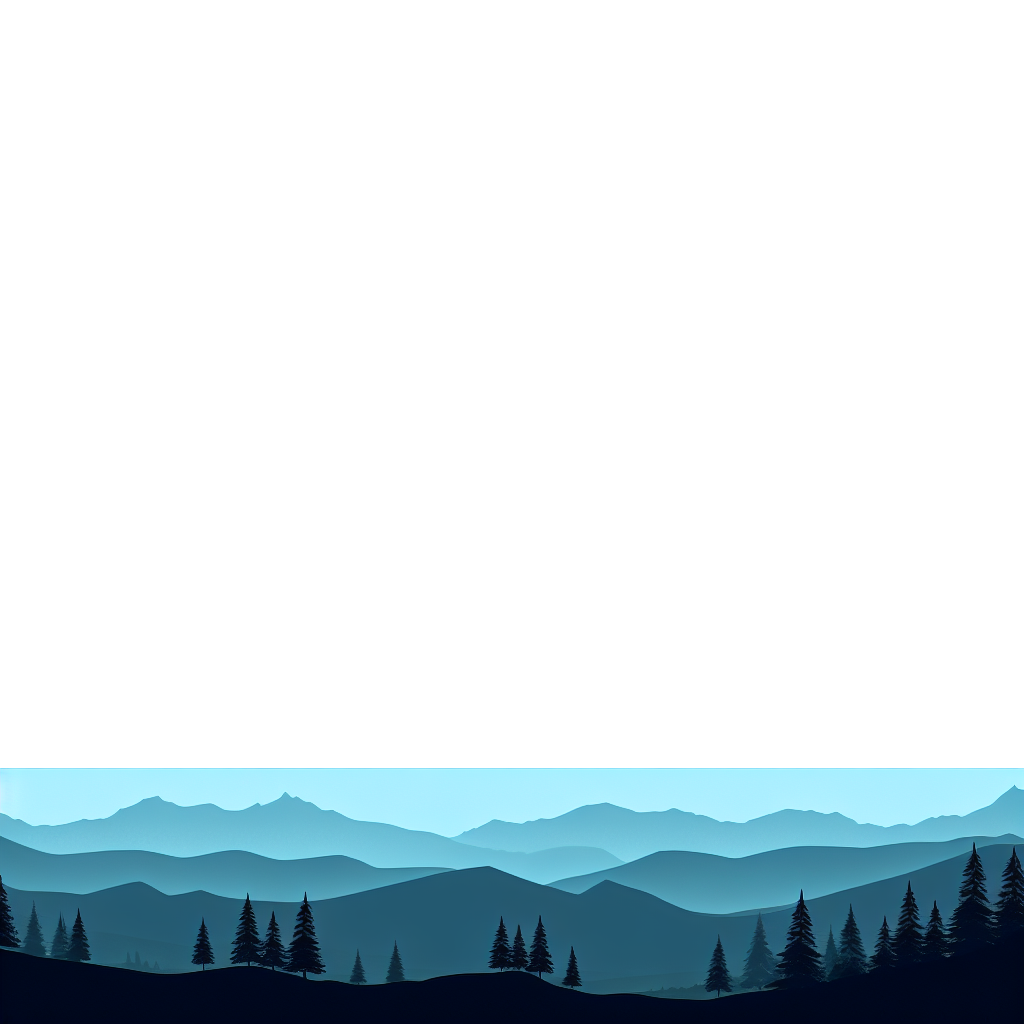
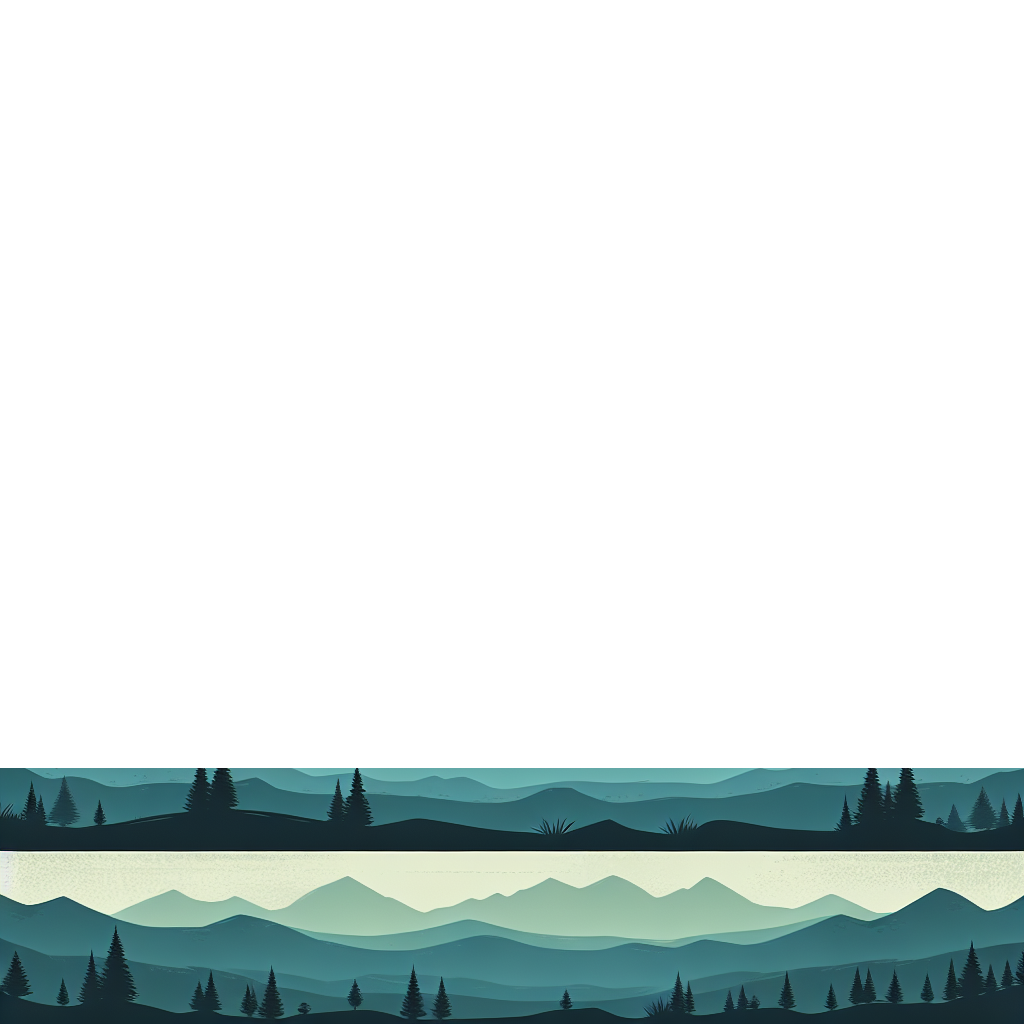
🦀Generated files for 2025-06-25🦀

Changed region(s): [[0.0, 0.75, 1.0, 1.0]]

diff --git a/README.md b/README.md
@@ -19,4 +19,4 @@ Additionally, the GIF generation pipeline may produce totally botched results wh
 
 ![image](images/image_current.png)
 
-**Prompt:** Background for 2d side-scrolling game, which have 4 separate horizontal layers. Layer 1: The far background features a distant mountain range with layered silhouettes in dark blue and teal shades, creating depth and atmospheric perspective. Layer 2: The mid-distant layer includes rolling hills and sparse trees in lighter blues and greens, adding some variation and distance.
+**Prompt:** Background for 2d side-scrolling game, which have 4 separate horizontal layers. Layer 1: The far background features a distant mountain range with layered silhouettes in dark blue and teal shades, creating depth and atmospheric perspective. Layer 2: Mid-distant elements include rolling hills and sparse trees in muted greens and browns, adding subtle variation.
